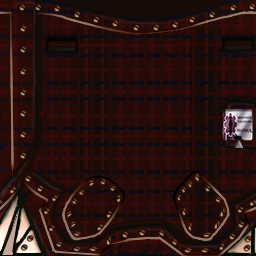
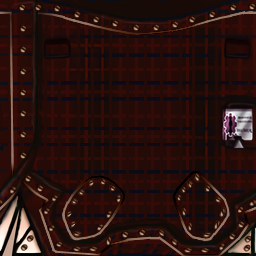
phase_3.5: Better Foreman blazer
Ran a De-JPEG pass on the blazer, then overlayed the elements of that one onto the original one.

diff --git a/README.md b/README.md
@@ -64,7 +64,7 @@ For the record, ***I will (mostly, see eye textures and TTR Toon Hall) not be ad
 * Kel'Block: Original resolution Nurse Shark, converting the Ambulance Chaser to the new UV
 * Bob-by/Greetings: Cashbot HQ Under New Management compatibility
 * yippie2020: Fix to the Lawbot HQ scale
-* AiGen: Reconstructed Foreman blazer
+* AiGen: Old reconstructed Foreman blazer
 * KHDecoder: Battle menu shadow fix
 * Footballtoon: Trading card scans
 * robertfwallis and Mr. Cheeze: General nitpicking/bug reporting
